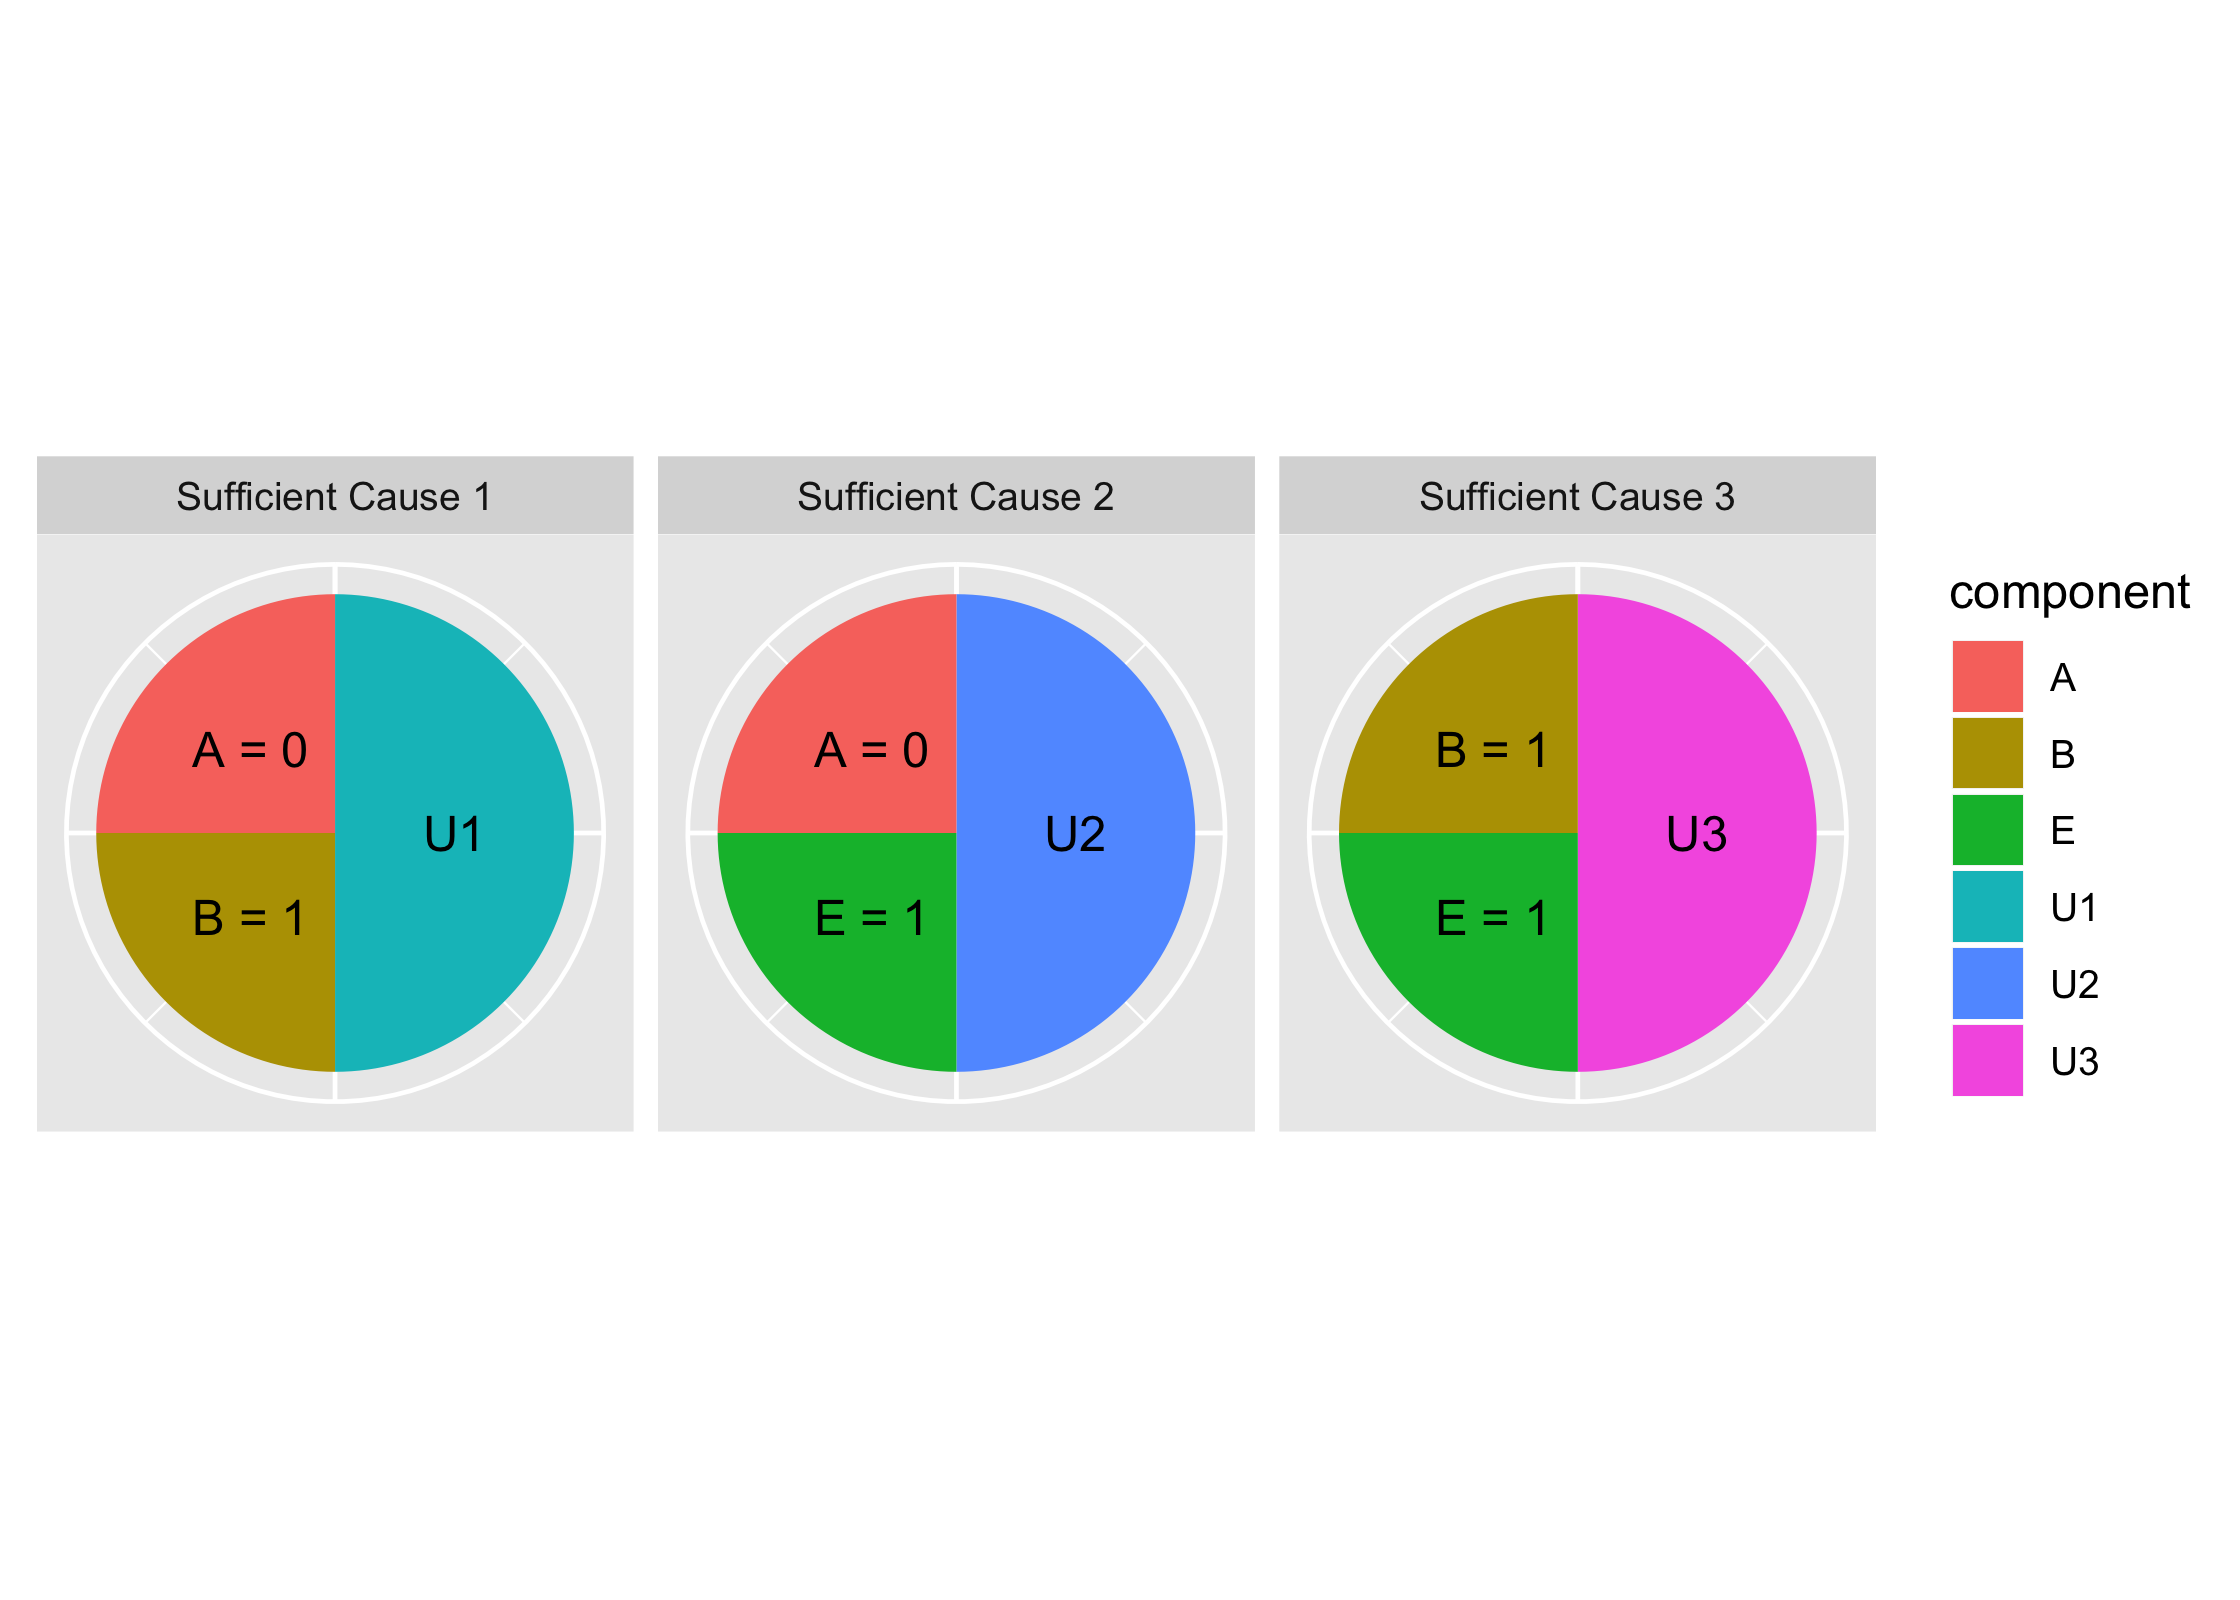
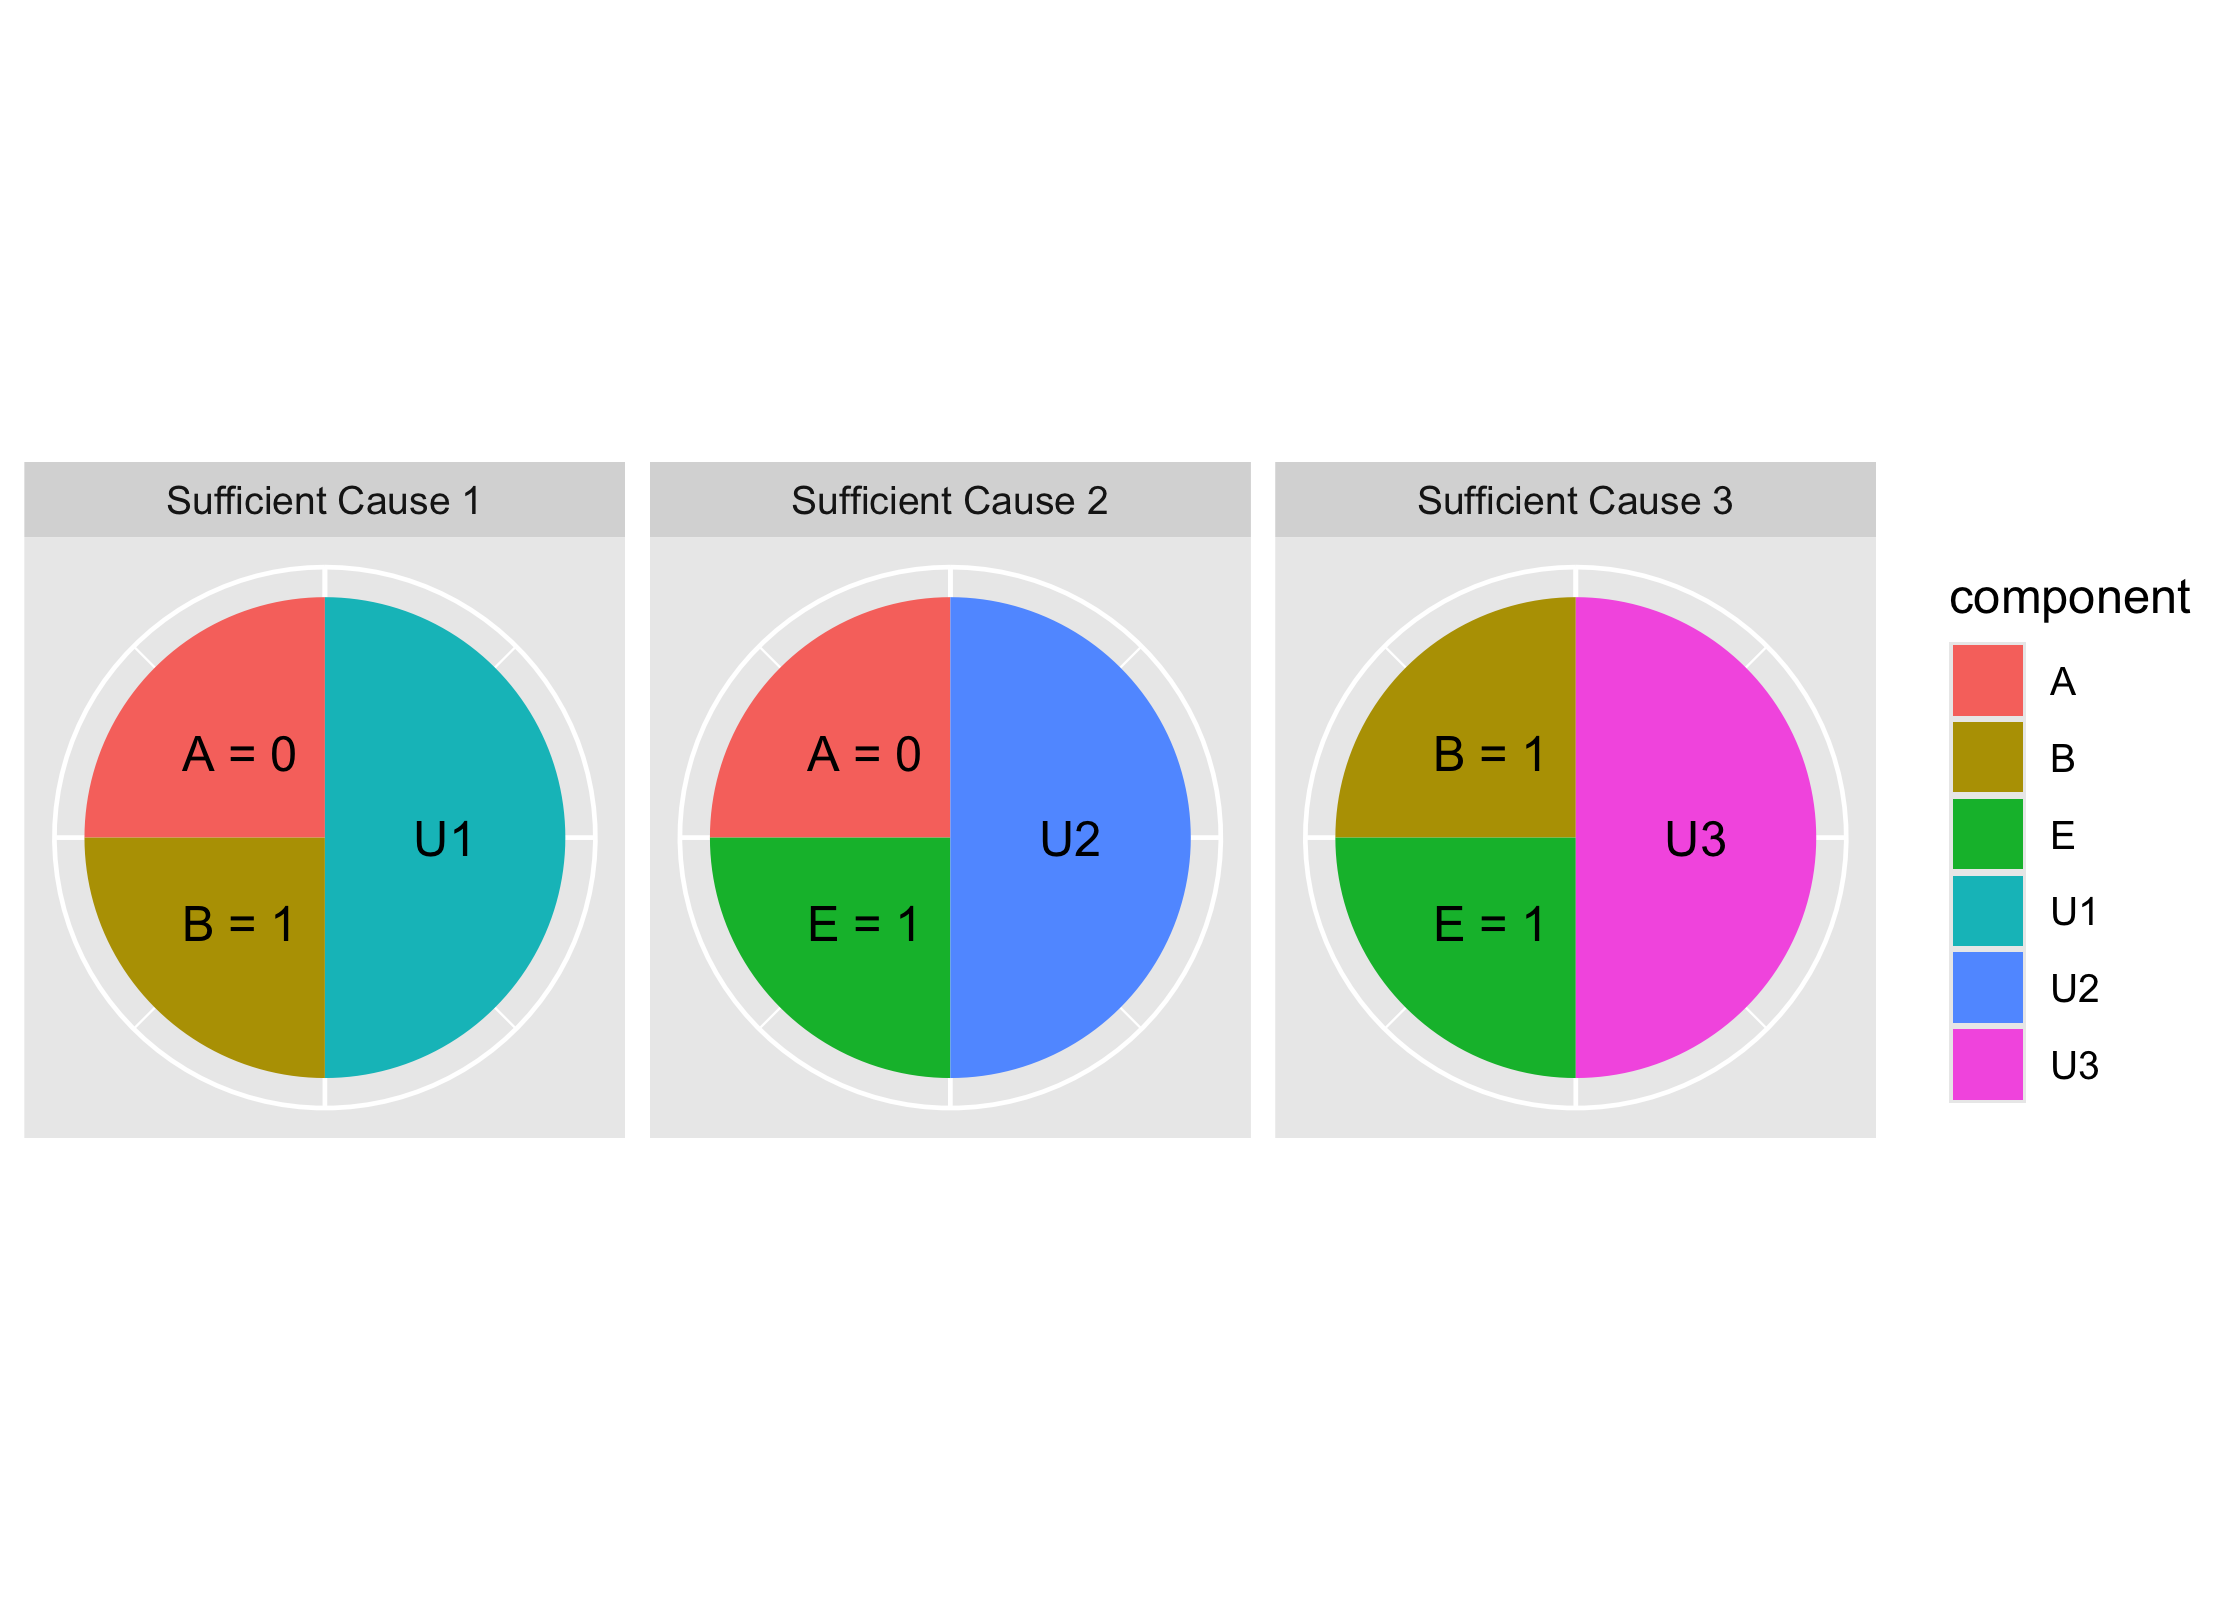
fix error in type

diff --git a/README.md b/README.md
@@ -1,11 +1,6 @@
 
 <!-- README.md is generated from README.Rmd. Please edit that file -->
 
-[![Travis build
-status](https://travis-ci.org/malcolmbarrett/causalpie.svg?branch=master)](https://travis-ci.org/malcolmbarrett/causalpie)
-[![AppVeyor build
-status](https://ci.appveyor.com/api/projects/status/github/malcolmbarrett/causalpie?branch=master&svg=true)](https://ci.appveyor.com/project/malcolmbarrett/causalpie)
-
 # causalpie: An R Package for easily creating and visualizing causal pies
 
 `causalpie` is an R package for creating tidy sufficient-component
@@ -24,7 +19,8 @@ devtools::install_github("malcolmbarrett/causalpie")
 ## Sufficient causes and causal pies
 
 The sufficient-component cause model (SCC), [proposed by Kenneth Rothman
-in 1976](https://pdfs.semanticscholar.org/4da7/76ed2ee2119e70ae46798056baf0f9d69316.pdf),
+in
+1976](https://pdfs.semanticscholar.org/4da7/76ed2ee2119e70ae46798056baf0f9d69316.pdf),
 is a framework for understanding how events occur. Rothman, an
 epidemiologist, conceived of SCC to understand the causes of diseases.
 
@@ -34,9 +30,9 @@ always need to have all three for D to occur. In SCC, A, B, and E are
 referred to as components. The components may combine in a multitude of
 ways to cause D. In fact, any of these combination will result in D:
 
-  - A = 0, B = 1
-  - A = 0, E = 1
-  - B = 1, E = 1
+- A = 0, B = 1
+- A = 0, E = 1
+- B = 1, E = 1
 
 These different combinations are called sufficient causes, because they
 are sufficient to cause D. Any components that appear in all sufficient
@@ -45,28 +41,28 @@ causes are called necessary causes.
 In `causalpie`, you define causes using `causify`. Each sufficient cause
 is grouped by the `sc()` function, which takes named values (e.g. E =
 1). By tradition, a component `U` is added to each sufficient cause to
-represent unknown components. This can be turned off by setting `add_u =
-FALSE`.
+represent unknown components. This can be turned off by setting
+`add_u = FALSE`.
 
 ``` r
 library(causalpie)
 #> Loading required package: ggplot2
-causes <- causify(sc(A = 0, B = 1), 
-                  sc(A = 0, E = 1), 
+causes <- causify(sc(A = 0, B = 1),
+                  sc(A = 0, E = 1),
                   sc(B = 1, E = 1))
 causes
-#> # A tibble: 9 x 5
+#> # A tibble: 9 × 5
 #>   component value label  frac cause             
-#>   <chr>     <chr> <chr> <dbl> <chr>             
-#> 1 A         0     A = 0  0.25 Sufficient Cause 1
-#> 2 B         1     B = 1  0.25 Sufficient Cause 1
-#> 3 U1        ?     U1     0.5  Sufficient Cause 1
-#> 4 A         0     A = 0  0.25 Sufficient Cause 2
-#> 5 E         1     E = 1  0.25 Sufficient Cause 2
-#> 6 U2        ?     U2     0.5  Sufficient Cause 2
-#> 7 B         1     B = 1  0.25 Sufficient Cause 3
-#> 8 E         1     E = 1  0.25 Sufficient Cause 3
-#> 9 U3        ?     U3     0.5  Sufficient Cause 3
+#>   <chr>     <dbl> <chr> <dbl> <chr>             
+#> 1 A             0 A = 0  0.25 Sufficient Cause 1
+#> 2 B             1 B = 1  0.25 Sufficient Cause 1
+#> 3 U1           NA U1     0.5  Sufficient Cause 1
+#> 4 A             0 A = 0  0.25 Sufficient Cause 2
+#> 5 E             1 E = 1  0.25 Sufficient Cause 2
+#> 6 U2           NA U2     0.5  Sufficient Cause 2
+#> 7 B             1 B = 1  0.25 Sufficient Cause 3
+#> 8 E             1 E = 1  0.25 Sufficient Cause 3
+#> 9 U3           NA U3     0.5  Sufficient Cause 3
 ```
 
 You can plot the sufficient causes as pies in `ggplot2` using
@@ -77,16 +73,24 @@ You can plot the sufficient causes as pies in `ggplot2` using
 causal_pie(causes)
 ```
 
-<img src="man/figures/README-causal_pie-1.png" width="100%" />
+<img src="man/figures/README-causal_pie-1.png" alt="" width="100%" />
 
 Because both objects are ggplots, you can change themes, scales, and so
 on.
 
 ``` r
-causify(sc(A = 1, B = 0), sc(A = 1, E = 1, C = 0)) %>% 
+causify(sc(A = 1, B = 0), sc(A = 1, E = 1, C = 0)) %>%
   causal_pie_necessary() +
   theme_causal_pie() +
   scale_fill_manual(values = c("#56B4E9", "#E69F00"))
+#> Warning: Supplying `...` without names was deprecated in tidyr 1.0.0.
+#> ℹ Please specify a name for each selection.
+#> ℹ Did you want `data = -cause`?
+#> ℹ The deprecated feature was likely used in the causalpie package.
+#>   Please report the issue to the authors.
+#> This warning is displayed once per session.
+#> Call `lifecycle::last_lifecycle_warnings()` to see where this warning was
+#> generated.
 ```
 
-<img src="man/figures/README-causal_pie_necessary-1.png" width="100%" />
+<img src="man/figures/README-causal_pie_necessary-1.png" alt="" width="100%" />
